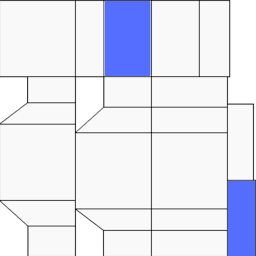
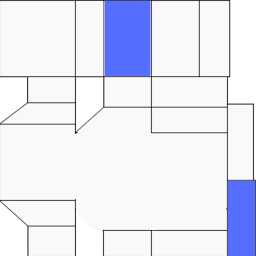
Compass functionality, lap timer to 4 s.

Changed region(s): [[0.2812, 0.5, 0.875, 0.9062], [0.375, 0.875, 0.4062, 0.9062]]

diff --git a/src/Game.java b/src/Game.java
@@ -1,6 +1,6 @@
 /**
    @author Timo Wiren
-   @date 2015-01-04
+   @date 2015-01-05
  */
 public class Game
 {
@@ -24,7 +24,8 @@ public class Game
     private float signSpeed = 0;
     private long lapFadeStartTime;
     private long mineExplodeTime;
-
+    private long timeBarAnimationStartTime;
+    
     public Game( Renderer renderer )
     {
         assets.init();
@@ -119,6 +120,7 @@ public class Game
         if (lapFadeStartTime == 0 && Vec3.distance( assets.car.getPosition(), assets.lap.getPosition() ) < lapChangeDistance)
         {
             lapFadeStartTime = System.currentTimeMillis();
+            timeBarAnimationStartTime = System.currentTimeMillis();
         }
         
         if (lapFadeStartTime > 0)
@@ -131,6 +133,10 @@ public class Game
         if (lapFadeStartTime > 0 && (System.currentTimeMillis() - lapFadeStartTime) > 1000)
         {
             setRandomPositionForModel( assets.lap );
+            setRandomPositionForModel( assets.mines[ 0 ] );
+            setRandomPositionForModel( assets.mines[ 1 ] );
+            setRandomPositionForModel( assets.mines[ 2 ] );
+
             assets.lap.setOpacity( 1 );
             lapFadeStartTime = 0;
         }
@@ -172,26 +178,42 @@ public class Game
         Vec3 pos = Vec3.add( assets.car.getPosition(), new Vec3( -3, 10, 8 ));
         assets.compass.setPosition( pos );
         
-        float rot = 0;
-        assets.compass.setRotation( new Vec3( 0, rot, 0 ) );
+        Vec3 dirFromCompassToLap = Vec3.subtract( assets.lap.getPosition(), assets.compass.getPosition() ).normalized();
+        float angleRad = (float)Math.atan2( (double)dirFromCompassToLap.z, (double)dirFromCompassToLap.x );
+        assets.compass.setRotation( new Vec3( 0, (float)Math.toDegrees( angleRad ), 0 ) );
     }
     
     private void setRandomPositionForModel( Model model )
     {
-        float x = (float)Math.max( (float)Math.random() * 15, 10 );
-        float z = (float)Math.max( (float)Math.random() * 15, 10 );
-        Vec3 oldPos = model.getPosition();
+        float x = (float)Math.random() * 10 - (float)Math.random() * 10;
+        float z = (float)Math.random() * 10 - (float)Math.random() * 10;
+        x *= Math.max( x, 5 );
+        z *= Math.max( z, 5 );
+        Vec3 oldPos = assets.lap.getPosition();
         model.setPosition( new Vec3( oldPos.x + x, 0, oldPos.z + z ) );
     }
 
-    // Returns percentage.
+    // Returns a percentage.
     private float solveTimeBarWidth()
     {
-        if (lapFadeStartTime == 0)
+        return 1 - lerp( 0, 1, 4, (System.currentTimeMillis() - timeBarAnimationStartTime) / 1000.0f );
+    }
+    
+    public static float lerp( float start, float target, float duration, float timeSinceStart )
+    {
+        float value = start;
+
+        if (timeSinceStart > 0.0f && timeSinceStart < duration)
         {
-            return 1;
+            final float range = target - start;
+            final float percent = timeSinceStart / duration;
+            value = start + (range * percent);
         }
-        
-        return 1 - (float)(System.currentTimeMillis() - lapFadeStartTime) / 1000.f;
+        else if (timeSinceStart >= duration)
+        {
+            value = target;
+        }
+
+        return value;
     }
 }

diff --git a/src/Assets.java b/src/Assets.java
@@ -1,6 +1,6 @@
 /**
    @author Timo Wiren
-   @date 2015-01-04
+   @date 2015-01-05
  */
 import java.nio.file.Files;
 import java.nio.file.Paths;
@@ -21,6 +21,7 @@ public class Assets
     private Texture trackTexture = new Texture();
     private Texture carTexture = new Texture();
     private Texture mineTexture = new Texture();
+    private Texture compassTexture = new Texture();
     
     public void init()
     {
@@ -31,11 +32,13 @@ public class Assets
         mines[ 0 ] = createModel( "assets/mine.obj" );
         mines[ 1 ] = createModel( "assets/mine.obj" );
         mines[ 2 ] = createModel( "assets/mine.obj" );
+
         timeBarTexture.loadImage( "assets/white.png" );
         lapTexture.loadImage( "assets/lap.png" );
         trackTexture.loadImage( "assets/grass.jpg" );
         carTexture.loadImage( "assets/player.png" );
         mineTexture.loadImage( "assets/mine.png" );
+        compassTexture.loadImage( "assets/white.png" );
         
         car.setPosition( new Vec3( 0, 0, -15 ) );
         car.setRotation( new Vec3( 0, 0, -1 ) );
@@ -65,7 +68,7 @@ public class Assets
         int width = (int)(Math.max( timeBarWidthPercentage, 0.1f ) * 400);
         renderer.draw( timeBarTexture, 20, 20, width, 20, color );
 
-        renderer.draw( compass, mineTexture );
+        renderer.draw( compass, compassTexture );
     }
     
     private Model createModel( String objPath )

diff --git a/src/Renderer.java b/src/Renderer.java
@@ -81,7 +81,15 @@ public class Renderer
                 errorStr = "GL_INVALID_OPERATION";
             }
             
-            System.out.println( "OpenGL error in " + info + ": " + errorStr );
+            System.out.println( "OpenGL error in " + info + ": " + errorStr + ". Stack trace:" );
+
+            for (int i = 2; i < Thread.currentThread().getStackTrace().length; ++i)
+            {
+                String className = Thread.currentThread().getStackTrace()[i].getClassName();
+                String methodName = Thread.currentThread().getStackTrace()[i].getMethodName();
+                System.out.println( className + ":" + methodName );
+            }
+            System.out.println("");
         }
     }
 

diff --git a/README.md b/README.md
@@ -1,6 +1,8 @@
 # Rally
 
-A simple 3D rally game written in Java/LWJGL/OpenGL 4.1. Not yet playable.
+![Screenshot](/rally.jpg)
+
+A simple 3D rally game written in Java/LWJGL3/OpenGL 4.1.
 
 ## Compilation and running
 
